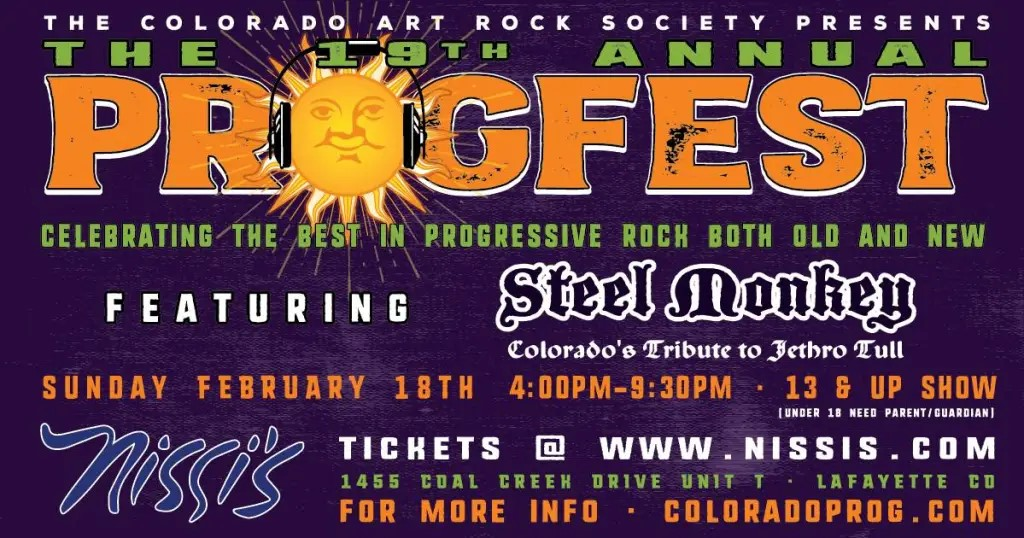
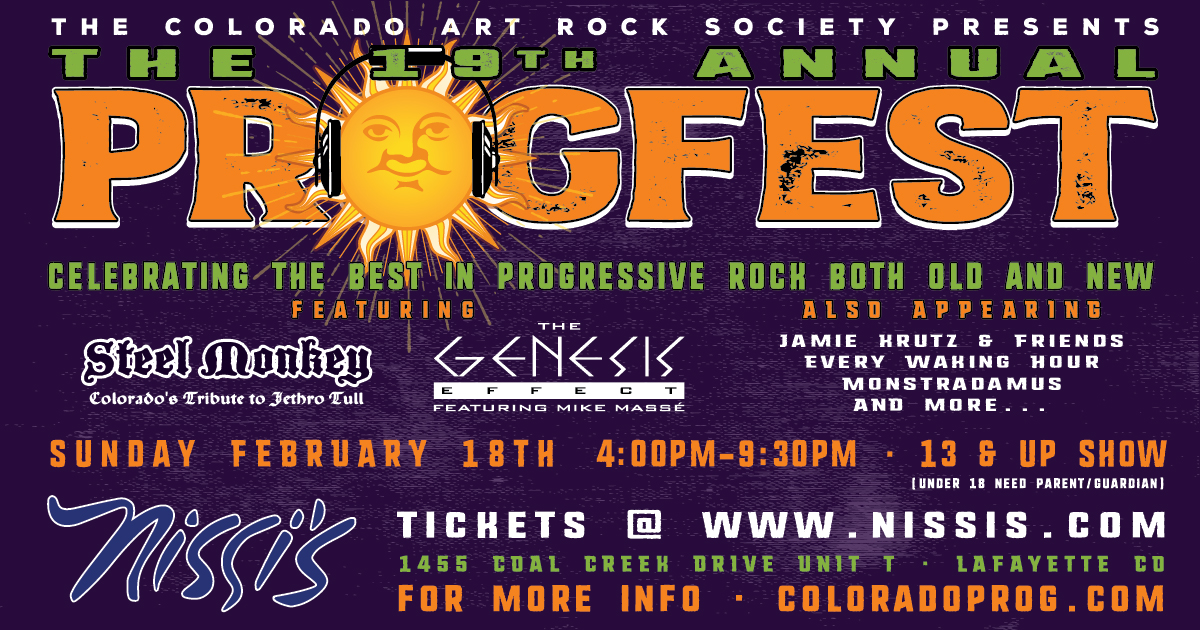
Updated the Profest and latest news section.

diff --git a/index.html b/index.html
@@ -80,22 +80,24 @@
             </section>
         </div>
         <div class="main-page-wrapper progFest-container bg-clr-dark">
+            <!-- <img id="bkgd-image" class="background-image-texture" src="./images/powderedBlackTexture.jpg" alt=""> -->
             <section class="section-wrapper-two ">
                 <div class="section-container">
                     <h3 class="section-title">PROGFEST 2024</h3>
                     <div class="progFest-grid">
                         <div class="progFest-grid--left" >
-                            <img src="./images/progfest2023poster.jpg" alt="">
+                            <img src="./images/progfest2024poster.jpg" alt="">
                         </div>
                         <div class="progFest-grid--right">
-                            <p>Each year ProgFest features some of the finest musicians in Colorado playing a 
-                                variety of classic and original prog rock, art rock, jazz fusion and 
-                                related musical adventures. Expect to hear tributes to classic bands 
-                                like Rush and Genesis as well as originals from Colorado acts like 
-                                Every Waking Hour and Jamie Krutz & Friends. 
-                                This year's headliner is Steel Monkey, a tribute to Jethro Tull. 
-                                They hail from the front range and are ready to deliver a great set of flute-filled prog!
+                            <p>ProgFest annually showcases top-notch musicians from Colorado, presenting 
+                                a mix of classic and original prog rock, art rock, jazz fusion, and related genres. 
+                                The lineup features tributes to iconic bands like Rush and Genesis, along with 
+                                original performances from local acts such as&nbsp;<span class="italics">Every Waking Hour</span>, <span class="italics">Monstradaumus</span>&nbsp;and&nbsp;<span class="italics">Jamie Krutz & Friends</span>.
                             </p>
+                            <p>Headlining this year is<span class="italics">&nbsp;Steel Monkey</span>, a Jethro Tull 
+                                tribute band hailing from the front range. 
+                            </p>
+                           
                             <div class="progFest-essentials-container">
                                 <h4>Progfest Essentials</h4>
                                 <div class="progFest-details-container">
@@ -121,7 +123,7 @@
                                         <h5>TICKETS</h5>
                                         <div>
                                             <p>$15 Advanced / $20 Day of show</p>
-                                            <p>Tix can be purchased <a href="https://www.showclix.com/event/the-colorado-art-rock-society-presents-the-18th-2024" target="_blank">here</a></p>
+                                            <p>Tickets can be purchased at <a href="https://www.showclix.com/event/the-colorado-art-rock-society-presents-the-18th-2024" target="_blank">Nissis.com</a></p>
                                         </div>
                                     </div>
                                 </div>
@@ -139,23 +141,23 @@
                                     </div>
                                     <div class="progFest-text-grid">
                                         <h5>4:10</h5>
-                                        <p>Band One</p>
+                                        <p>M2C Project</p>
                                     </div>
                                     <div class="progFest-text-grid">
                                         <h5>4:40</h5>
-                                        <p>Band Two</p>
+                                        <p>G3P</p>
                                     </div>
                                     <div class="progFest-text-grid">
                                         <h5>5:10</h5>
-                                        <p>Band Three</p>
+                                        <p>Monstradaumus</p>
                                     </div>
                                     <div class="progFest-text-grid">
                                         <h5>5:40</h5>
-                                        <p>Band Four</p>
+                                        <p>Dave & Laura</p>
                                     </div>
                                     <div class="progFest-text-grid">
                                         <h5>6:10</h5>
-                                        <p>Band Five</p>
+                                        <p>The Amazing Kent Adamson</p>
                                     </div>
                                     <div class="progFest-text-grid">
                                         <h5>6:40</h5>
@@ -163,7 +165,7 @@
                                     </div>
                                     <div class="progFest-text-grid">
                                         <h5>7:10</h5>
-                                        <p>Band Seven</p>
+                                        <p>The Genesis Project Featuring Mike Masse</p>
                                     </div>
                                     <div class="progFest-text-grid">
                                         <h5>7:40</h5>
@@ -182,16 +184,42 @@
                     </div>
                 </div>
             </section>
-
         </div>
         <div id="" class="main-page-wrapper">
             <div id="bkgd-image-overlay" class="overlay-texture-dark"></div>
             <img id="bkgd-image" class="background-image-texture" src="./images/powderedBlackTexture.jpg" alt="">
-    
             <section class="section-wrapper-two">
                 <div class="section-container">
                     <h3 class="section-title">LATEST NEWS</h3>
                     <div class="latest-news-container">
+                        <article class="card__latest-news">
+                            <span class="card__latest-news--date">DECEMBER 14th 2023</span>
+                            <h4 class="card__latest-news--title">
+                                Steven Wilson Releases Song 'December Skies' Co-written by AI
+                            </h4>
+                            <img  class="card__latest-news--image" src="./images/steven-wilson-xmas.jpg" alt="">
+                            <div class="card__latest-news--text">
+                                <p>Steven Wilson has a released a new Christmas song written with the help of artificial intelligence.</p>
+                                <p>According to Wilson's website, "December Skies is the result, swiftly recorded last weekend and written in collaboration with an Artificial Intelligence version of myself. I wonder what people will make of it. I wonder what I make of it.”</p>
+                                <p>The visualizer for December Skies was generated using a purpose built AI system created by Miles Skarin/Crystal Spotlight.</p>
+                            </div>
+                            <a class="btn__read-more" href="https://stevenwilsonhq.com/december-skies/" target="_blank"><span>READ MORE</span><i aria-hidden="true" class="fa-solid fa-arrow-right-long"></i></a>
+                        </article>
+                        <article class="card__latest-news">
+                            <span class="card__latest-news--date">NOVEMBER 16th 2023</span>
+                            <h4 class="card__latest-news--title">
+                                Steve Hackett Set To Release New Studio Album, 'The Circus and the Whale.'
+                            </h4>
+                            <img  class="card__latest-news--image" src="./images/Steve-Hacket-Album.jpg" alt="">
+                            <div class="card__latest-news--text">
+                                <p>The legendary guitarist will release his latest studio album, 'The Circus 
+                                    and the Whale' on February 16th, 2024 via InsideOut Music.</p>
+                                <p>Recorded at the prestigious Siren Studio in the UK, this captivating 'rite of passage' concept album weaves the narrative of a young protagonist named Travla.</p>
+                                <p>Joining Hackettt on the album are the familiar faces of Roger King, Rob Townsend, Jonas Reingold, Nad Sylvan, Craig Blundell, and Amanda Lehmann, with guest appearances by Nick D'Virgilio and Hugo Degenhardt.</p>
+                               
+                            </div>
+                            <a class="btn__read-more" href="http://www.hackettsongs.com/news/album-steve-hackett-the-circus-and-the-nightwhale.html" target="_blank"><span>READ MORE</span><i aria-hidden="true" class="fa-solid fa-arrow-right-long"></i></a>
+                        </article>
                         <article class="card__latest-news">
                             <span class="card__latest-news--date">NOVEMBER 8th 2023</span>
                             <h4 class="card__latest-news--title">

diff --git a/scripts/eventsScripts.js b/scripts/eventsScripts.js
@@ -61,9 +61,9 @@ const events = [
     },
     {
         headliner: "Sleep Token",
-        supportActs: [],
+        supportActs: [], 
         date: new Date("2024,5,12"),
-        time: "8:00pm",
+        time: "6:30pm",
         venue: "Red Rocks Amphitheater",
         city: "Morrison",
         state: "Co",
@@ -85,7 +85,7 @@ const events = [
     },
     {
         headliner: "The Ocean",
-        supportActs: ["The World Is A Beautiful Place & I Am No Longer Afraid To Die"],
+        supportActs: ["The World Is A Beautiful Place & I Am No Longer Afraid To Die", "Shy", "Low"],
         date: new Date("2024,02,20"),
         time: "8:00pm",
         venue: "Bluebird Theater",

diff --git a/upcomingEvents.html b/upcomingEvents.html
@@ -21,7 +21,7 @@
                 <ul id="primary-navigation"
                         class="main-links"
                         aria-label="primary navigation">
-                    <li><a href="">MEETINGS</a></li>
+                    <li><a href="meetings.html">MEETINGS</a></li>
                     <li><a href="upcomingEvents.html">UPCOMING EVENTS</a></li>
                     <li><a href="about.html">WHO WE ARE</a></li>
                     <li><a href="">SIGN IN</a></li>

diff --git a/styles/mainStyles.css b/styles/mainStyles.css
@@ -1224,6 +1224,10 @@ a {
     grid-template-columns: 75px 1fr;
     align-items: start;
  }
+
+ .progFest-text-grid a {
+    color: var(--clr-main);
+ }
  
  .progFest-text-grid + .progFest-text-grid {
     margin-top: 1rem;
@@ -1270,8 +1274,14 @@ a {
      .progFest-essentials-container {
         padding: 1rem 1rem;
      }
- }
+     
+    }
 
+    .italics {
+        font-style: italic;
+     }
+
+  
     
 
 
